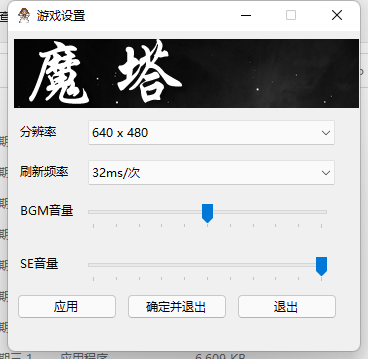
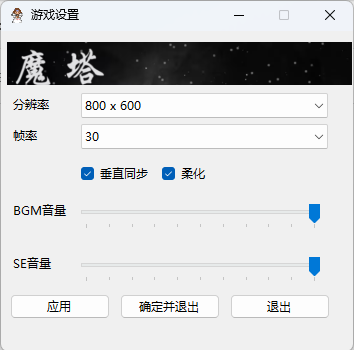
update

diff --git a/Config/Form1.Designer.cs b/Config/Form1.Designer.cs
@@ -41,6 +41,8 @@
             button3 = new Button();
             label2 = new Label();
             comboBox2 = new ComboBox();
+            checkBox1 = new CheckBox();
+            checkBox2 = new CheckBox();
             ((System.ComponentModel.ISupportInitialize)pictureBox1).BeginInit();
             ((System.ComponentModel.ISupportInitialize)trackBar1).BeginInit();
             ((System.ComponentModel.ISupportInitialize)trackBar2).BeginInit();
@@ -49,7 +51,7 @@
             // label1
             // 
             label1.AutoSize = true;
-            label1.Location = new Point(9, 92);
+            label1.Location = new Point(9, 65);
             label1.Margin = new Padding(2, 0, 2, 0);
             label1.Name = "label1";
             label1.Size = new Size(44, 17);
@@ -61,7 +63,7 @@
             comboBox1.DropDownStyle = ComboBoxStyle.DropDownList;
             comboBox1.FormattingEnabled = true;
             comboBox1.Items.AddRange(new object[] { "640 x 480", "800 x 600", "960 x 720", "1120 x 840", "1280 x 960" });
-            comboBox1.Location = new Point(80, 89);
+            comboBox1.Location = new Point(80, 62);
             comboBox1.Margin = new Padding(2, 3, 2, 3);
             comboBox1.Name = "comboBox1";
             comboBox1.Size = new Size(247, 25);
@@ -79,11 +81,12 @@
             // 
             // pictureBox1
             // 
-            pictureBox1.Image = Properties.Resources.config;
+            pictureBox1.Image = Properties.Resources.back;
             pictureBox1.Location = new Point(6, 8);
             pictureBox1.Margin = new Padding(2, 3, 2, 3);
             pictureBox1.Name = "pictureBox1";
-            pictureBox1.Size = new Size(345, 69);
+            pictureBox1.Size = new Size(345, 49);
+            pictureBox1.SizeMode = PictureBoxSizeMode.Zoom;
             pictureBox1.TabIndex = 3;
             pictureBox1.TabStop = false;
             // 
@@ -149,29 +152,51 @@
             // label2
             // 
             label2.AutoSize = true;
-            label2.Location = new Point(9, 132);
+            label2.Location = new Point(9, 96);
             label2.Margin = new Padding(2, 0, 2, 0);
             label2.Name = "label2";
-            label2.Size = new Size(56, 17);
+            label2.Size = new Size(32, 17);
             label2.TabIndex = 10;
-            label2.Text = "刷新频率";
+            label2.Text = "帧率";
             // 
             // comboBox2
             // 
             comboBox2.DropDownStyle = ComboBoxStyle.DropDownList;
             comboBox2.FormattingEnabled = true;
-            comboBox2.Items.AddRange(new object[] { "16ms/次", "24ms/次", "32ms/次", "40ms/次", "48ms/次" });
-            comboBox2.Location = new Point(80, 129);
+            comboBox2.Items.AddRange(new object[] { "15", "30", "45", "60" });
+            comboBox2.Location = new Point(80, 93);
             comboBox2.Margin = new Padding(2, 3, 2, 3);
             comboBox2.Name = "comboBox2";
             comboBox2.Size = new Size(247, 25);
             comboBox2.TabIndex = 1;
+            // 
+            // checkBox1
+            // 
+            checkBox1.AutoSize = true;
+            checkBox1.Location = new Point(80, 133);
+            checkBox1.Name = "checkBox1";
+            checkBox1.Size = new Size(75, 21);
+            checkBox1.TabIndex = 12;
+            checkBox1.Text = "垂直同步";
+            checkBox1.UseVisualStyleBackColor = true;
+            // 
+            // checkBox2
+            // 
+            checkBox2.AutoSize = true;
+            checkBox2.Location = new Point(161, 133);
+            checkBox2.Name = "checkBox2";
+            checkBox2.Size = new Size(51, 21);
+            checkBox2.TabIndex = 13;
+            checkBox2.Text = "柔化";
+            checkBox2.UseVisualStyleBackColor = true;
             // 
             // Form1
             // 
             AutoScaleDimensions = new SizeF(96F, 96F);
             AutoScaleMode = AutoScaleMode.Dpi;
             ClientSize = new Size(352, 320);
+            Controls.Add(checkBox2);
+            Controls.Add(checkBox1);
             Controls.Add(comboBox2);
             Controls.Add(label2);
             Controls.Add(button3);
@@ -214,5 +239,7 @@
         private Button button3;
         private Label label2;
         private ComboBox comboBox2;
+        private CheckBox checkBox1;
+        private CheckBox checkBox2;
     }
 }

diff --git a/Config/Form1.cs b/Config/Form1.cs
@@ -18,18 +18,22 @@ namespace Config
             data = datatext.Split(Environment.NewLine.ToCharArray());
             data = data.Where(s => !string.IsNullOrEmpty(s)).ToArray();
             comboBox1.SelectedIndex = (int)((float.Parse(data[1].Split("=")[1]) - 1) / 0.25);
-            comboBox2.SelectedIndex = (int.Parse(data[2].Split("=")[1]) - 16) / 8;
+            comboBox2.SelectedIndex = int.Parse(data[2].Split("=")[1]);
             trackBar1.Value = int.Parse(data[3].Split("=")[1]) / 10;
             trackBar2.Value = int.Parse(data[4].Split("=")[1]) / 10;
+            checkBox1.Checked = int.Parse(data[5].Split("=")[1]) != 0;
+            checkBox2.Checked = int.Parse(data[6].Split("=")[1]) != 0;
         }
         private void button1_Click(object sender, EventArgs e)
         {
             string savedata = "";
             savedata = savedata + "[config]\n";
             savedata = savedata + "resolutionRatio=" + (comboBox1.SelectedIndex * 0.25 + 1).ToString() + "\n";
-            savedata = savedata + "frameRate=" + (comboBox2.SelectedIndex * 8 + 16).ToString() + "\n";
+            savedata = savedata + "frameRate=" + comboBox2.SelectedIndex.ToString() + "\n";
             savedata = savedata + "BGMVolume=" + (trackBar1.Value * 10).ToString() + "\n";
             savedata = savedata + "SEVolume=" + (trackBar2.Value * 10).ToString() + "\n";
+            savedata = savedata + "verticalSync=" + (checkBox1.Checked ? "1" : "0") + "\n";
+            savedata = savedata + "smooth=" + (checkBox2.Checked ? "1" : "0") + "\n";
             System.IO.File.WriteAllText(Application.StartupPath + @"ref\config.ini", savedata, Encoding.GetEncoding("GB2312"));
         }
 
@@ -43,6 +47,5 @@ namespace Config
         {
             Environment.Exit(0);
         }
-
     }
 }
